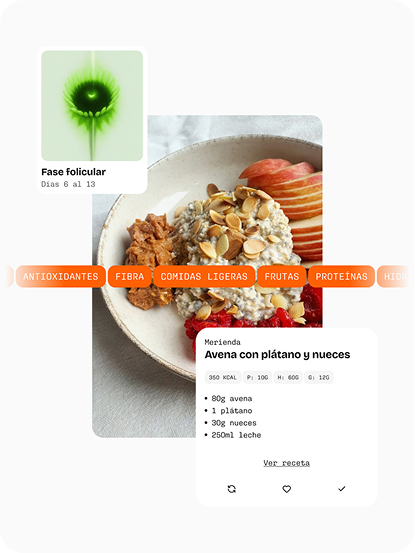
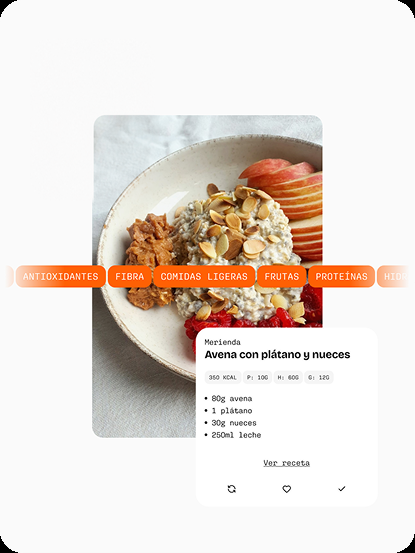
feat(bento): imágenes 2 a 6 traducidas al inglés y al francés
Cada idioma carga su versión de las imágenes del bento (data-bg-i18n,
data-bg-ext, data-bg-langs). Se retira la tarjeta "Fase folicular" de la
imagen 6 (ya no sincronizamos con la fase). Los originales de alta
resolución quedan en assets/figma/originals (ignorados por git).

diff --git a/index.html b/index.html
@@ -204,27 +204,27 @@
           <p data-i18n="func.card1.text">Con Apple Salud y tu reloj, ves cuánto se aleja tu frecuencia cardíaca en cada fase de tu media general. Es tu tendencia, no un diagnóstico.</p>
         </div>
         <div class="bento-card">
-          <div class="bento-img" style="background-image:url('assets/figma/bento-card-2.png')"></div>
+          <div class="bento-img" data-bg-i18n="assets/figma/bento-card-2" data-bg-ext="png" data-bg-langs="en,fr" style="background-image:url('assets/figma/bento-card-2.png')"></div>
           <h4 data-i18n="func.card2.title">Ajusta, cambia o guarda tus recetas según tus objetivos</h4>
           <p data-i18n="func.card2.text">Recetas flexibles que puedes adaptar a lo que tienes en la nevera y a tu tiempo disponible.</p>
         </div>
         <div class="bento-card">
-          <div class="bento-img" style="background-image:url('assets/figma/bento-card-3.png')"></div>
+          <div class="bento-img" data-bg-i18n="assets/figma/bento-card-3" data-bg-ext="png" data-bg-langs="en,fr" style="background-image:url('assets/figma/bento-card-3.png')"></div>
           <h4 data-i18n="func.card3.title">Ejercicios adaptados a tu condición y objetivos</h4>
           <p data-i18n="func.card3.text">Entrenos que respetan tu energía, tus lesiones y lo que quieres conseguir.</p>
         </div>
         <div class="bento-card">
-          <div class="bento-img" style="background-image:url('assets/figma/bento-card-4.png')"></div>
+          <div class="bento-img" data-bg-i18n="assets/figma/bento-card-4" data-bg-ext="png" data-bg-langs="en,fr" style="background-image:url('assets/figma/bento-card-4.png')"></div>
           <h4 data-i18n="func.card4.title">Guarda tu día a día para conocer mejor tus sensaciones</h4>
           <p data-i18n="func.card4.text">Flujo, dolor, energía y ánimo, registrados en segundos para detectar patrones.</p>
         </div>
         <div class="bento-card">
-          <div class="bento-img" style="background-image:url('assets/figma/bento-card-5.png')"></div>
+          <div class="bento-img" data-bg-i18n="assets/figma/bento-card-5" data-bg-ext="png" data-bg-langs="en,fr" style="background-image:url('assets/figma/bento-card-5.png')"></div>
           <h4 data-i18n="func.card5.title">Controla tu hidratación para estar siempre al 100%</h4>
           <p data-i18n="func.card5.text">Recordatorios y objetivos de agua ajustados a tu actividad diaria.</p>
         </div>
         <div class="bento-card">
-          <div class="bento-img" style="background-image:url('assets/figma/bento-card-6.png')"></div>
+          <div class="bento-img" data-bg-i18n="assets/figma/bento-card-6" data-bg-ext="png" data-bg-langs="en,fr" style="background-image:url('assets/figma/bento-card-6.png')"></div>
           <h4 data-i18n="func.card6.title">Elige tu tipo de dieta: gustos, alergias, intolerancias y tiempo</h4>
           <p data-i18n="func.card6.text">Configura tu perfil nutricional una vez y deja que el resto se adapte a ti.</p>
         </div>
@@ -743,8 +743,11 @@
       });
       // Imágenes con texto incrustado: una versión por idioma (es sin sufijo)
       document.querySelectorAll('[data-bg-i18n]').forEach(el => {
-        const suffix = lang === 'es' ? '' : '-' + lang;
-        el.style.backgroundImage = "url('" + el.dataset.bgI18n + suffix + ".jpg')";
+        // data-bg-langs: idiomas que tienen versión propia; el resto usa la base (español)
+        const langs = (el.dataset.bgLangs || 'es,en,fr').split(',');
+        const own = lang !== 'es' && langs.includes(lang);
+        const url = own ? el.dataset.bgI18n + '-' + lang + '.jpg' : el.dataset.bgI18n + '.' + (el.dataset.bgExt || 'jpg');
+        el.style.backgroundImage = "url('" + url + "')";
       });
       ['es','en','fr'].forEach(l => {
         const btn = document.getElementById('btn-' + l);
